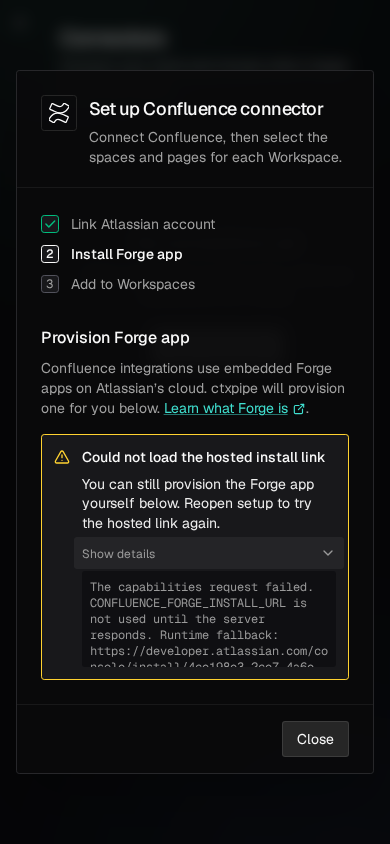
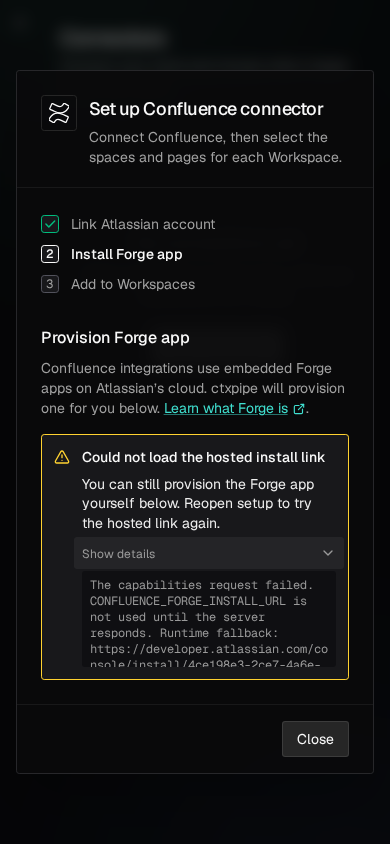
Share the technical detail block, and name a timeout or abort as its own cause
- TechnicalDetail in components/ui replaces the two hand-styled capped mono blocks.
- OrgOutletError: a timeout or an abort (ApiError status 0) no longer says that the
  server is not reachable, and the fetch error stays visible in the detail block.
- hideSecrets keeps the final punctuation after a URL, shows a fragment as '#…',
  and no longer hides the word after 'authentication:' or 'author:'.

Changed region(s): [[0.2154, 0.6777, 0.8308, 0.8009]]

diff --git a/apps/ui/src/lib/hide-secrets.ts b/apps/ui/src/lib/hide-secrets.ts
@@ -4,7 +4,7 @@ const UUID = /^[0-9a-f]{8}-[0-9a-f]{4}-[0-9a-f]{4}-[0-9a-f]{4}-[0-9a-f]{12}$/i
  * Machine text for the screen, without secret-like values (R5):
  * - the query of a URL (a signed link carries its signature there) becomes "?…";
  * - the value after "Bearer", or after a secret-like name and ":" or "="
- *   (token, secret, password, key, signature, auth…), becomes "…"; after a
+ *   (token, secret, password, key, signature, authorization, auth_token), becomes "…"; after a
  *   secret-like name and a space, a value with a digit becomes "…";
  * - a long run of token characters keeps only its first 4 characters. A UUID
  *   is an id, not a secret, so it stays.
@@ -12,7 +12,15 @@ const UUID = /^[0-9a-f]{8}-[0-9a-f]{4}-[0-9a-f]{4}-[0-9a-f]{4}-[0-9a-f]{12}$/i
 export function hideSecrets(text: string): string {
   return (
     text
-      .replace(/(https?:\/\/[^\s?#]+)[?#]\S*/g, "$1?…")
+      // Stop before a final punctuation mark of the sentence; a fragment
+      // stays a fragment ("#…").
+      .replace(
+        /(https?:\/\/[^\s?#]+)(?:(\?)[^\s#]*?)?(?:(#)\S*?)?(?=[.,;)]?(?:\s|$))/g,
+        (match, base: string, query?: string, hash?: string) =>
+          query || hash
+            ? `${base}${query ? "?…" : ""}${hash ? "#…" : ""}`
+            : match,
+      )
       .replace(/\b(bearer)\s+[^\s,;"']+/gi, "$1 …")
       // "token abc123": a value with a digit after a secret-like name and a
       // space. A plain word ("token expired", "key not found") stays.
@@ -21,7 +29,7 @@ export function hideSecrets(text: string): string {
         "$1 …",
       )
       .replace(
-        /\b((?:access[_-]?|refresh[_-]?|api[_-]?|client[_-]?|private[_-]?)?(?:token|secret|password|passwd|key|signature|auth\w*))(["']?\s*[:=]\s*["']?)(?!bearer\b)[^\s,;&"']+/gi,
+        /\b((?:access[_-]?|refresh[_-]?|api[_-]?|client[_-]?|private[_-]?)?(?:token|secret|password|passwd|key|signature|auth(?:orization|[_-]?token)?))(["']?\s*[:=]\s*["']?)(?!bearer\b)[^\s,;&"']+/gi,
         "$1$2…",
       )
       .replace(/[A-Za-z0-9_-]{32,}/g, (run) =>

diff --git a/apps/ui/src/features/org/OrgOutletError.tsx b/apps/ui/src/features/org/OrgOutletError.tsx
@@ -1,5 +1,6 @@
 import { Button } from "@/components/ui/Button"
 import { InlineAlert } from "@/components/ui/InlineAlert"
+import { TechnicalDetail } from "@/components/ui/TechnicalDetail"
 import { ApiError } from "@/lib/api-result"
 import { hideSecrets } from "@/lib/hide-secrets"
 
@@ -11,6 +12,15 @@ import { hideSecrets } from "@/lib/hide-secrets"
 function errorSummary(error: unknown): string {
   if (error instanceof ApiError) {
     if (error.status === 0) {
+      // apiFetch gives status 0 for its own timeout, an abort, and a network
+      // failure. Only the last one is a connection problem.
+      const cause = error.cause instanceof Error ? error.cause.name : ""
+      if (cause === "TimeoutError") {
+        return "The server did not answer in time."
+      }
+      if (cause === "AbortError") {
+        return "The request was stopped before it completed."
+      }
       return "ctxpipe could not reach the server. Check your network connection."
     }
     if (error.status >= 500) {
@@ -29,7 +39,10 @@ function errorSummary(error: unknown): string {
 function rawReason(error: unknown): string | null {
   const reason =
     error instanceof ApiError
-      ? (error.body.error ?? error.body.message)
+      ? (error.body.error ??
+        error.body.message ??
+        // Status 0 has no body: the fetch error ("signal timed out") is the cause.
+        (error.status === 0 ? error.message : undefined))
       : error instanceof Error
         ? error.message
         : null
@@ -61,9 +74,9 @@ export function OrgOutletError(props: {
       >
         <p>{errorSummary(props.error)}</p>
         {reason ? (
-          <p className="mt-2 max-h-24 overflow-y-auto rounded-md bg-red-950/60 px-2 py-1.5 font-mono text-xs wrap-anywhere text-red-100">
+          <TechnicalDetail tone="error" className="mt-2">
             {reason}
-          </p>
+          </TechnicalDetail>
         ) : null}
         <p className="mt-1 text-red-200">
           {props.reset ? "Try again in a moment." : "Reload the page."}

diff --git a/apps/ui/src/features/connectors/components/confluence-setup/steps/InstallForgeStep.tsx b/apps/ui/src/features/connectors/components/confluence-setup/steps/InstallForgeStep.tsx
@@ -10,6 +10,7 @@ import {
 import { ExternalLink } from "@/components/ui/ExternalLink"
 import { InlineAlert } from "@/components/ui/InlineAlert"
 import { Spinner } from "@/components/ui/spinner"
+import { TechnicalDetail } from "@/components/ui/TechnicalDetail"
 import { TextField } from "@/components/ui/TextField"
 import { pollWhileOk } from "@/lib/api-result"
 import { hideSecrets } from "@/lib/hide-secrets"
@@ -334,7 +335,7 @@ export function InstallForgeStep({
                 </span>
               </DisclosureHeader>
               <DisclosurePanel className="px-2">
-                <p className="max-h-24 overflow-y-auto rounded-md bg-zinc-950/60 p-2 font-mono text-xs wrap-anywhere text-muted-foreground">
+                <TechnicalDetail>
                   The capabilities request failed. CONFLUENCE_FORGE_INSTALL_URL
                   is not used until the server responds. Runtime fallback:{" "}
                   {hideSecrets(
@@ -342,7 +343,7 @@ export function InstallForgeStep({
                       pickHttps(CONFLUENCE_FORGE_INSTALL_URL) ??
                       "none",
                   )}
-                </p>
+                </TechnicalDetail>
               </DisclosurePanel>
             </Disclosure>
           </InlineAlert>

diff --git a/apps/ui/src/lib/hide-secrets.test.ts b/apps/ui/src/lib/hide-secrets.test.ts
@@ -9,7 +9,7 @@ describe("hideSecrets", () => {
         "fallback: https://developer.atlassian.com/console/install/4ce198e3-2ce7-4a6e-865f-a3e31d15fe43?signature=AYABeHVDAf5aXClr&product=confluence.",
       ),
     ).toBe(
-      "fallback: https://developer.atlassian.com/console/install/4ce198e3-2ce7-4a6e-865f-a3e31d15fe43?…",
+      "fallback: https://developer.atlassian.com/console/install/4ce198e3-2ce7-4a6e-865f-a3e31d15fe43?….",
     )
   })
 
@@ -38,5 +38,19 @@ describe("hideSecrets", () => {
     const text =
       "The token check timed out at https://example.com/api/v1 (key not found)."
     expect(hideSecrets(text)).toBe(text)
+  })
+
+  it("keeps the final period, and hides a fragment as a fragment", () => {
+    expect(hideSecrets("See https://example.com/a?sig=x.")).toBe(
+      "See https://example.com/a?….",
+    )
+    expect(hideSecrets("See https://example.com/a#tok=x")).toBe(
+      "See https://example.com/a#…",
+    )
+  })
+
+  it("keeps ordinary words that start with auth", () => {
+    expect(hideSecrets("authentication: failed")).toBe("authentication: failed")
+    expect(hideSecrets("auth_token=abc")).toBe("auth_token=…")
   })
 })

diff --git a/apps/ui/src/features/org/OrgOutletError.stories.tsx b/apps/ui/src/features/org/OrgOutletError.stories.tsx
@@ -48,6 +48,30 @@ export const ConnectorsFailed: Story = {
   },
 }
 
+/**
+ * The product fetch hit its own timeout (ApiError status 0). The alert does
+ * not blame the network connection, and the fetch error stays visible.
+ */
+export const RequestTimedOut: Story = {
+  args: {
+    title: "Could not load connectors",
+    error: new ApiError("signal timed out", 0, {
+      cause: new DOMException("signal timed out", "TimeoutError"),
+    }),
+    reset: () => undefined,
+  },
+  play: async ({ canvasElement }) => {
+    const canvas = within(canvasElement)
+    await expect(
+      canvas.getByText("The server did not answer in time."),
+    ).toBeVisible()
+    await expect(canvas.getByText("signal timed out")).toBeVisible()
+    await expect(
+      canvas.queryByText(/could not reach the server/),
+    ).not.toBeInTheDocument()
+  },
+}
+
 /** The org gate timed out during the server render. */
 export const OrgGateFailed: Story = {
   args: {

diff --git a/apps/ui/src/components/ui/TechnicalDetail.tsx b/apps/ui/src/components/ui/TechnicalDetail.tsx
@@ -1,0 +1,29 @@
+import type { ReactNode } from "react"
+
+import { cn } from "@/lib/utils"
+
+/**
+ * Raw machine detail (a server reason, a fallback link) in a small mono block
+ * with a capped height that scrolls (DESIGN.md). The caller removes the
+ * secret-like values with `hideSecrets` first.
+ */
+export function TechnicalDetail(props: {
+  children: ReactNode
+  /** `error` sits inside an error alert; `muted` sits on a neutral surface. */
+  tone?: "error" | "muted"
+  className?: string
+}) {
+  return (
+    <p
+      className={cn(
+        "max-h-24 overflow-y-auto rounded-md px-2 py-1.5 font-mono text-xs wrap-anywhere",
+        props.tone === "error"
+          ? "bg-red-950/60 text-red-100"
+          : "bg-zinc-950/60 text-muted-foreground",
+        props.className,
+      )}
+    >
+      {props.children}
+    </p>
+  )
+}
